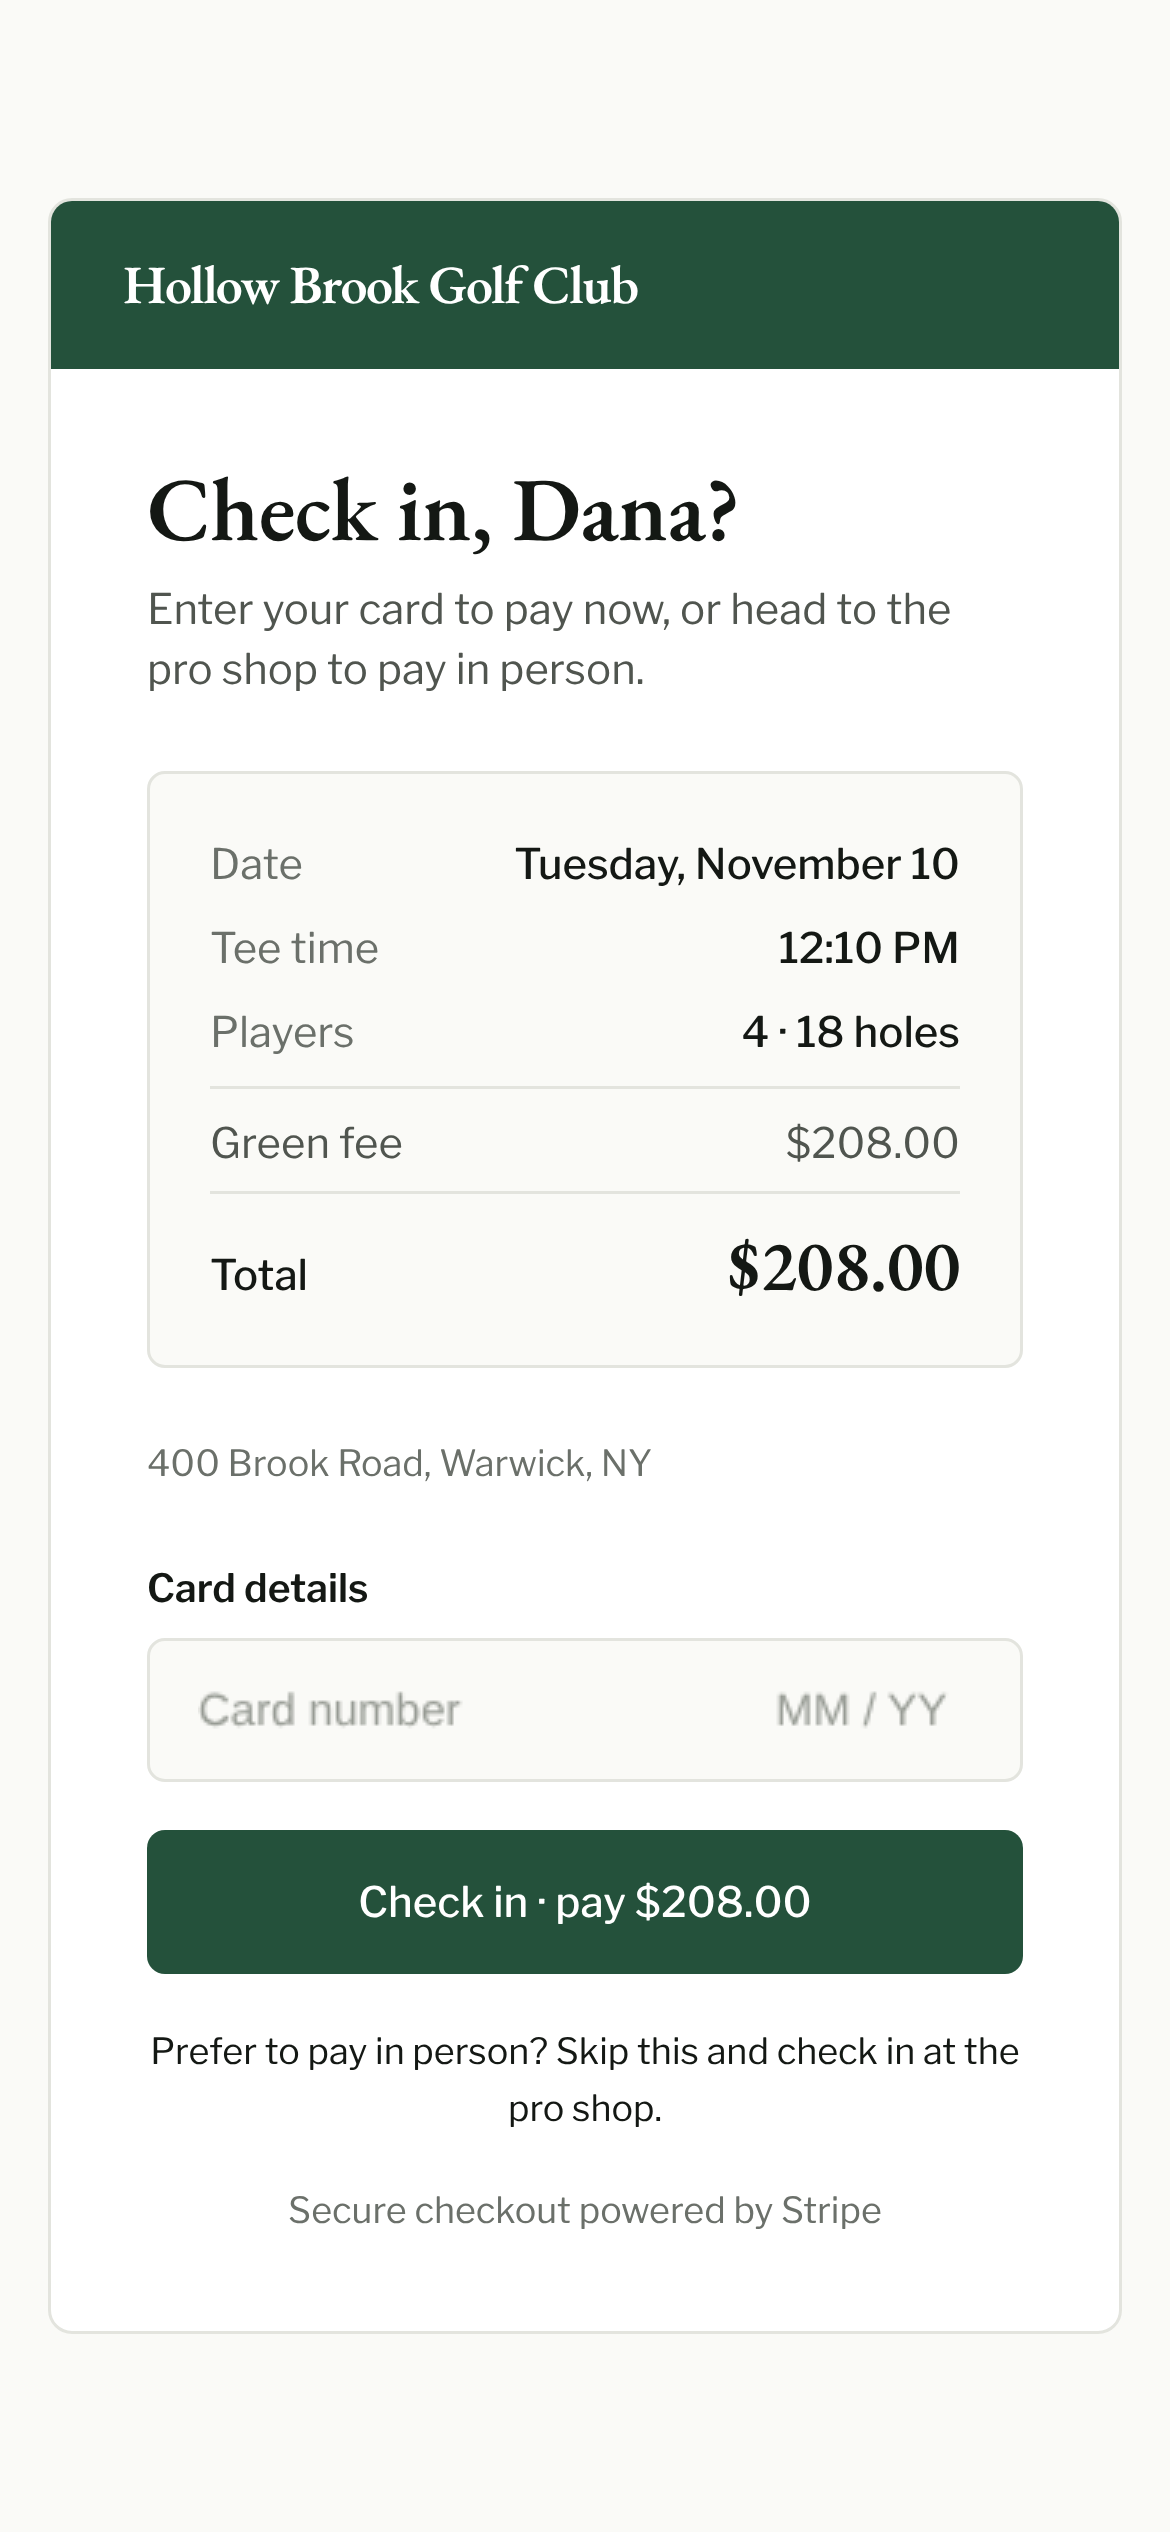
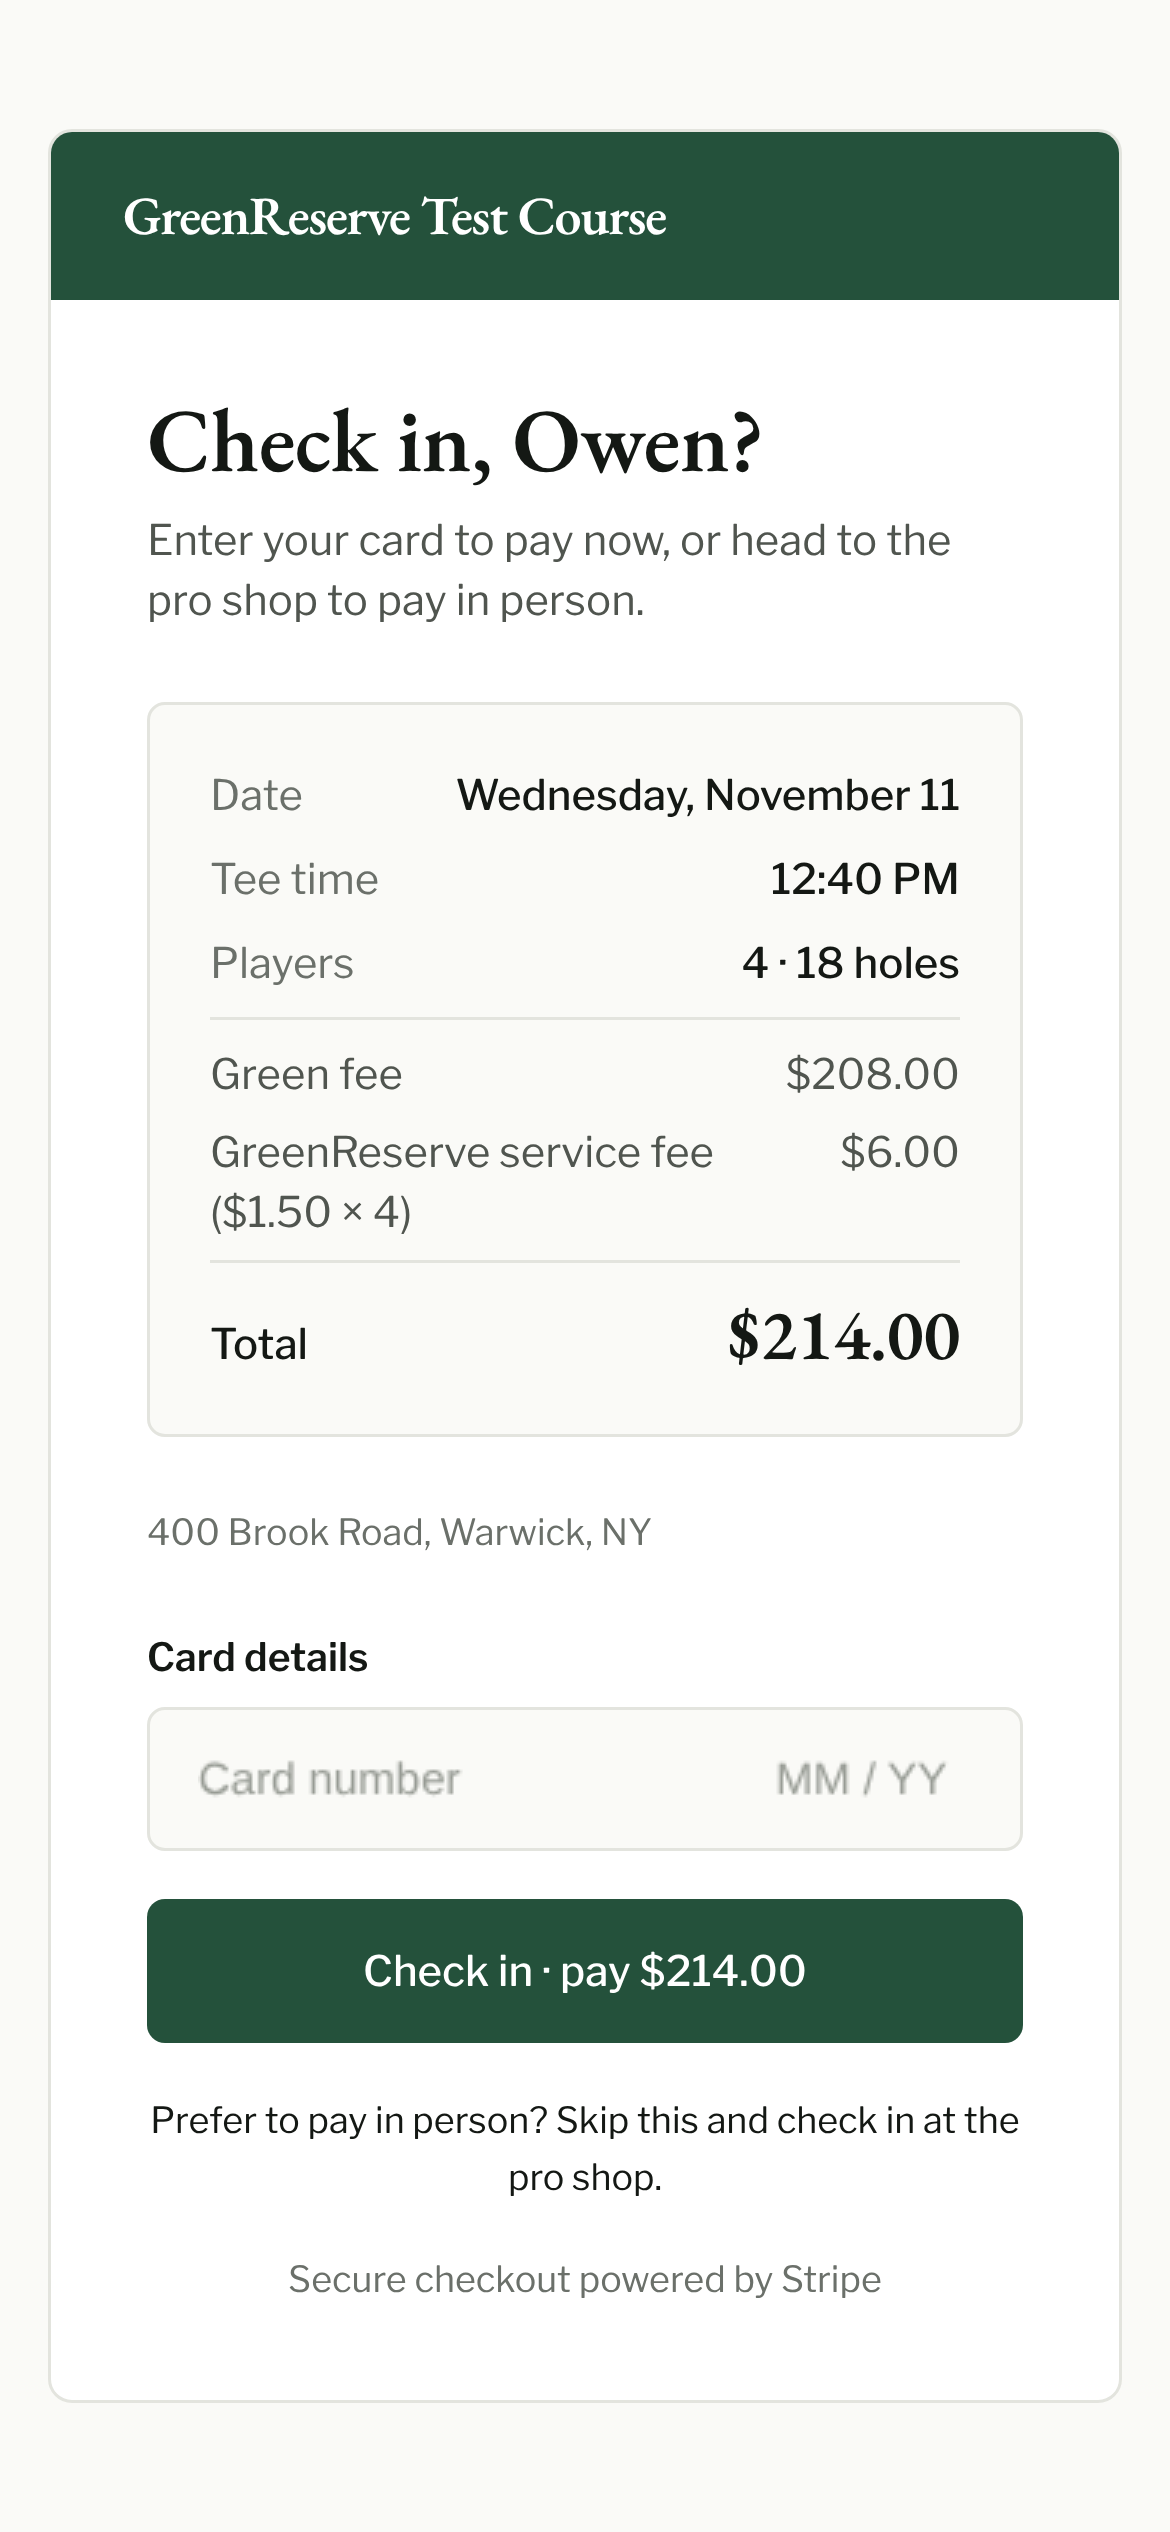
Homepage: Cam's answers — no fee line, a pro shop section, the test course
- the fee sentence comes off the homepage; the hero keeps "Free for your course."
- the pro shop gets its own section and screenshot, in the register's own words
- the demo and the screenshot course are "GreenReserve Test Course"
- pay.png is an online booking, so it shows the $1.50 service fee line
- homepage-demo-test pins all four

Claude-Session: https://claude.ai/code/session_014ceBnvqdgYtrAaJ1v5CwQ2

diff --git a/scripts/screenshots/seed.ts b/scripts/screenshots/seed.ts
@@ -14,7 +14,9 @@ import { logAgreementAccepted } from '../../src/lib/course-timeline';
 const url = process.env.DATABASE_URL ?? '';
 if (!/@(localhost|127\.0\.0\.1)[:/]/.test(url)) { console.error('Refusing: the screenshot seed only runs against a local database.'); process.exit(1); }
 
-const SLUG = 'hollow-brook-demo';
+const SLUG = 'greenreserve-test-course';
+// Cam 2026-11-11: the screenshot course is "GreenReserve Test Course" — never a name a real club could have.
+const OLD_SLUGS = ['hollow-brook-demo'];
 const TZ = 'America/New_York';
 // Realistic, varied, not famous (HOMEPAGE_SPEC: no Smith/Johnson/celebrities).
 const FIRST = ['Marcus', 'Priya', 'Tom', 'Dana', 'Luis', 'Grace', 'Kevin', 'Erin', 'Sam', 'Nora', 'Jamal', 'Hannah', 'Owen', 'Rosa', 'Brian', 'Mei',
@@ -35,7 +37,8 @@ const pad = (n: number) => String(n).padStart(2, '0');
 const addDays = (d: string, n: number) => { const t = new Date(`${d}T12:00:00Z`); t.setUTCDate(t.getUTCDate() + n); return t.toISOString().slice(0, 10); };
 
 async function main() {
-  const old = await prisma.course.findUnique({ where: { slug: SLUG }, select: { id: true, operatorId: true } });
+  for (const slug of [SLUG, ...OLD_SLUGS]) {
+  const old = await prisma.course.findUnique({ where: { slug }, select: { id: true, operatorId: true } });
   if (old) {
     await prisma.monthlyReview.deleteMany({ where: { courseId: old.id } });
     await prisma.agreementAcceptance.deleteMany({ where: { courseId: old.id } });
@@ -44,10 +47,11 @@ async function main() {
     await prisma.teeTime.deleteMany({ where: { courseId: old.id } });
     await prisma.course.delete({ where: { id: old.id } });
   }
+  }
   const op = await prisma.courseOperator.upsert({ where: { email: 'shots@greenreserve.test' }, update: { emailVerified: true, onboardingStep: 4 }, create: { name: 'Dana Whitfield', email: 'shots@greenreserve.test', password: 'x', emailVerified: true, onboardingStep: 4 } });
   const today = todayIn(TZ);
   const course = await prisma.course.create({ data: {
-    name: 'Hollow Brook Golf Club', slug: SLUG, operatorId: op.id, address: '400 Brook Road', city: 'Warwick', state: 'NY', zipCode: '10990',
+    name: 'GreenReserve Test Course', slug: SLUG, operatorId: op.id, address: '400 Brook Road', city: 'Warwick', state: 'NY', zipCode: '10990',
     holes: 18, liveStatus: 'live', active: true, timezone: TZ, brandColor: '#24513B', stripeAccountId: 'acct_shots', stripeAccountActive: true,
     firstWentLiveAt: new Date(`${addDays(today, -95)}T12:00:00Z`),
   } });
@@ -85,6 +89,19 @@ async function main() {
         noShowAt: noShow ? new Date(`${date}T${time}:00Z`) : null,
       } });
     }
+  }
+
+  // The pro shop: a register opened this morning and the shelf it sells from (the homepage's pro shop shot).
+  await prisma.registerOpen.create({ data: { courseId: course.id, day: today, seq: 0, startingCashCents: 20000, openedBy: 'Dana Whitfield', kind: 'open' } });
+  const SHELF: [string, string, number, number | null][] = [
+    ['Range balls, small bucket', 'Range', 600, null], ['Range balls, large bucket', 'Range', 1000, null],
+    ['Titleist Pro V1, sleeve', 'Balls', 1800, 36], ['Callaway Supersoft, sleeve', 'Balls', 1000, 48],
+    ['Glove', 'Accessories', 1600, 22], ['Tees, bag of 50', 'Accessories', 400, 60], ['Ball marker', 'Accessories', 500, 30],
+    ['Logo cap', 'Apparel', 2800, 14], ['Logo polo', 'Apparel', 5500, 9],
+    ['Water', 'Snack bar', 250, null], ['Sports drink', 'Snack bar', 350, null], ['Hot dog', 'Snack bar', 500, null],
+  ];
+  for (const [i, [name, category, priceCents, stockCount]] of SHELF.entries()) {
+    await prisma.shopItem.create({ data: { courseId: course.id, name, category, priceCents, stockCount, sortOrder: i } });
   }
 
   // The inquiry it came from (the onboarding timeline, which the dashboard reads for the agreement, hangs off it).

diff --git a/src/app/HomeContent.tsx b/src/app/HomeContent.tsx
@@ -25,6 +25,7 @@ const DOES = [
   'A booking page with your course’s name, colors and photos, linked from your own website',
   'Online, phone and walk-in bookings on one sheet, with your public, resident and member rates',
   'Payments at the counter or on the golfer’s own phone, with a card on file for late-cancel and no-show fees',
+  'A pro shop register for walk-up sales, with stock counts and an end-of-day close-out',
   'Staff logins, with permissions you set for each person',
   'An AI assistant that answers questions about your day and drafts changes for you to confirm',
   'Analytics for every day, and at the start of each month a written review of the month before',
@@ -42,6 +43,14 @@ const FEATURES: { h: string; p: string; shot: string; device: 'laptop' | 'phone'
     p: 'Revenue, how full the sheet was and what each round brought in, against the period before, in plain words. At the start of every month you get a written review of the month before, built only from your own numbers.',
     shot: 'analytics', device: 'laptop',
     alt: 'The analytics page: what to look at, with a button beside each, and the monthly review of the month before',
+  },
+  {
+    // Cam 2026-11-11: the pro shop gets its own section; its words are the register's own (Take cash, Card reader,
+    // Text a pay link, Stock, Close out on /dashboard/shop).
+    h: 'Your pro shop, on the same system.',
+    p: 'Ring up range balls, a sleeve of balls or a hot dog at the register. Take cash, use a Stripe card reader or text the customer a pay link. Count stock if you want to, and close out the drawer at the end of the day.',
+    shot: 'shop', device: 'laptop',
+    alt: 'The pro shop register: a tile for each item with its price and how many are left, sorted into accessories, apparel, balls, range and the snack bar, beside an empty sale',
   },
   {
     h: 'Paid at the counter or on their phone.',
@@ -82,8 +91,6 @@ export default function HomeContent() {
             <ul className={s.does}>
               {DOES.map(d => <li key={d}>{d}</li>)}
             </ul>
-            {/* W2-H1 (Cam 2026-10-19): the hero only says free; the golfer fee is disclosed here, once (LQ-2 wording). */}
-            <p className={s.fee}><b>Free for your course.</b> No setup fee, no monthly fee, no commission on your green fees. Golfers pay $1.50 per player on each online booking, added to your price.</p>
           </div>
           <div className={s.cards}>
             <a href="#see" className={s.card}>

diff --git a/scripts/screenshots/capture.ts b/scripts/screenshots/capture.ts
@@ -26,7 +26,7 @@ import { runProposeTool } from '../../src/lib/birdie/proposals';
 
 const BASE = process.env.SHOTS_URL ?? 'http://localhost:3124';
 const OUT = path.join(process.cwd(), 'public/home/shots');
-const SLUG = 'hollow-brook-demo';
+const SLUG = 'greenreserve-test-course';
 const TZ = 'America/New_York';
 /** The seed plays today's rounds before 10:00; the browser's clock is fixed just after. */
 const CLOCK = '10:05';
@@ -55,8 +55,11 @@ async function main() {
   const phoneGroups = unpaid.filter(b => b.source !== 'online');
   if (phoneGroups.length < 2) throw new Error('The seed left too few unpaid phone groups this afternoon — reseed.');
   const payFor = phoneGroups[0];
-  const checkInToken = payFor.checkInToken ?? randomUUID();
-  if (!payFor.checkInToken) await prisma.booking.update({ where: { id: payFor.id }, data: { checkInToken } });
+  // The pay shot is an ONLINE booking, so it shows GreenReserve's $1.50 a player (Cam 2026-11-11); a counter booking carries none.
+  const payOnline = unpaid.find(b => b.source === 'online' && b.accessFeeTotal > 0);
+  if (!payOnline) throw new Error('The seed left no unpaid online group this afternoon — reseed.');
+  const payOnlineToken = payOnline.checkInToken ?? randomUUID();
+  if (!payOnline.checkInToken) await prisma.booking.update({ where: { id: payOnline.id }, data: { checkInToken: payOnlineToken } });
 
   const b = await chromium.launch({ executablePath: process.env.CHROMIUM_PATH });
   const laptop = async () => {
@@ -159,10 +162,21 @@ async function main() {
     await ctx.close();
   }
 
+  // ── The pro shop register (Cam 2026-11-11: the homepage's pro shop section) ──
+  {
+    const ctx = await laptop(); const p = await ctx.newPage();
+    await p.goto(`${BASE}/dashboard/shop`, { waitUntil: 'load', timeout: 240000 });
+    await p.getByText('Logo cap').first().waitFor({ timeout: 120000 });
+    await clean(p);
+    await p.waitForTimeout(600);
+    await shot(p, 'shop');
+    await ctx.close();
+  }
+
   // ── The golfer pays on their phone ──
   {
     const ctx = await phone(); const p = await ctx.newPage();
-    await p.goto(`${BASE}/checkin/${payFor.id}?token=${checkInToken}`, { waitUntil: 'load', timeout: 240000 });
+    await p.goto(`${BASE}/checkin/${payOnline.id}?token=${payOnlineToken}`, { waitUntil: 'load', timeout: 240000 });
     await p.getByText(/pay \$/i).first().waitFor({ timeout: 120000 });
     await clean(p);
     await p.waitForTimeout(1500);

diff --git a/src/components/home/TeeSheetDemo.tsx b/src/components/home/TeeSheetDemo.tsx
@@ -136,7 +136,7 @@ function TeeSheet() {
   return (
     <div className={s.app}>
       <div className={s.rail} aria-hidden="true">
-        <div className={s.railCourse}><i style={{ background: st.acc }}>HC</i><span><b>Hollow Creek Golf Club</b><small>Public course</small></span></div>
+        <div className={s.railCourse}><i style={{ background: st.acc }}>GT</i><span><b>GreenReserve Test Course</b><small>Public course</small></span></div>
         {RAIL.map((g, gi) => (
           <div key={gi} className={s.railGrp}>
             {g.group && <small>{g.group}</small>}
@@ -145,7 +145,7 @@ function TeeSheet() {
         ))}
       </div>
       <div className={s.main}>
-        <div className={s.mName} aria-hidden="true"><i style={{ background: st.acc }}>HC</i>Hollow Creek Golf Club</div>
+        <div className={s.mName} aria-hidden="true"><i style={{ background: st.acc }}>GT</i>GreenReserve Test Course</div>
         <div className={s.sheetTitle}>{d.long}</div>
         <div className={s.strip}>
           <div><small>Players</small><span><b>{players}</b> of {spots}</span><small>spots booked</small></div>
@@ -293,7 +293,7 @@ function GolferPhone() {
     <div className={s.phone} style={{ '--acc': st.acc } as React.CSSProperties}>
       <div className={s.phHead}>
         <Image src="/home/course-hollow-creek.jpg" alt="" fill sizes="300px" className={s.phImg} />
-        <div><b>Hollow Creek Golf Club</b><span>Suffern, NY · 18 holes</span></div>
+        <div><b>GreenReserve Test Course</b><span>Suffern, NY · 18 holes</span></div>
       </div>
 
       {(st.step === 'pick' || (st.step === 'confirm' && !sel)) && <>
@@ -356,7 +356,7 @@ function GolferPhone() {
           <span className={s.ok}>You&apos;re all set</span>
           <p>Your spot is reserved — no card required. Pay at the course or use the check-in link in your confirmation email.</p>
           {st.sel && <small>Check in at {fmt(st.sel)} and pay {money(total)}</small>}
-          <button type="button" className={s.again} onClick={() => update(x => ({ ...x, step: 'pick', sel: null }))}>Back to Hollow Creek Golf Club</button>
+          <button type="button" className={s.again} onClick={() => update(x => ({ ...x, step: 'pick', sel: null }))}>Back to GreenReserve Test Course</button>
         </div>
       )}
     </div>

diff --git a/scripts/homepage-demo-test.ts b/scripts/homepage-demo-test.ts
@@ -30,6 +30,13 @@ check('the strip sums green fees only', demo.includes('courseShare(d, paid)') &&
 check('the card leaves the booking fee off unpaid and counter-paid groups', demo.includes("g.done && g.src === 'online' ? roundTotal(d, g.n) : g.n * d.rate"));
 check('the header says closed before Full, as the real card', page.includes("`${panelSlot.seatsClosed} closed`") && demo.includes('closed > 0 ? `${closed} closed`'));
 check('closed seats cut what the golfer phone offers', demo.includes('const free = (r: Row) => CAP - booked(r) - (r.closed ?? 0);') && demo.includes('free(r) >= st.n'));
+// Cam 2026-11-11: no GreenReserve fee sentence on the homepage (the hero's "Free for your course." stays); the pro
+// shop has its own section, in the register's words; the demo and screenshot course is "GreenReserve Test Course".
+const homeCopy = readFileSync('src/app/HomeContent.tsx', 'utf8');
+const seed = readFileSync('scripts/screenshots/seed.ts', 'utf8');
+check('the homepage carries no fee sentence', !homeCopy.includes('$1.50') && !homeCopy.includes('per player on each online booking') && homeCopy.includes('Free for your course.'));
+check('the pro shop has its own section with its own screenshot', homeCopy.includes("shot: 'shop'") && ['Take cash', 'Close out'].every(l => readFileSync('src/app/dashboard/shop/page.tsx', 'utf8').includes(l)));
+check('the demo and the screenshot seed are the GreenReserve Test Course', demo.includes('GreenReserve Test Course') && seed.includes("name: 'GreenReserve Test Course'") && !demo.includes('Hollow') && !/name: 'Hollow/.test(seed));
 // Labels the product no longer has stay out of the demo.
 for (const gone of ['Take cash · check in', 'Close to new bookings', 'Open to anyone', 'tee times</span>', 'No Card Required']) check(`the demo no longer says "${gone}"`, !demo.includes(gone));
 

diff --git a/src/app/home.module.css b/src/app/home.module.css
@@ -229,8 +229,6 @@
 .does { margin: 28px 0 0; padding: 0; list-style: none; }
 .does li { position: relative; padding: 12px 0 12px 22px; border-top: 1px solid var(--line); }
 .does li:last-child { border-bottom: 1px solid var(--line); }
-.fee { margin: 24px 0 0; font-size: 16px; max-width: 36em; }
-.fee b { font-weight: 600; }
 .does li::before { content: ""; position: absolute; left: 2px; top: 22px; width: 8px; height: 2px; background: var(--fairway); }
 .cards { display: flex; flex-direction: column; gap: 16px; }
 .card { display: flex; flex-direction: column; gap: 6px; padding: 24px 26px; background: var(--paper); border-radius: 8px; box-shadow: 0 0 0 1px rgba(20,24,20,.06), 0 1px 2px rgba(20,24,20,.05); text-decoration: none; transition: box-shadow .15s; }
